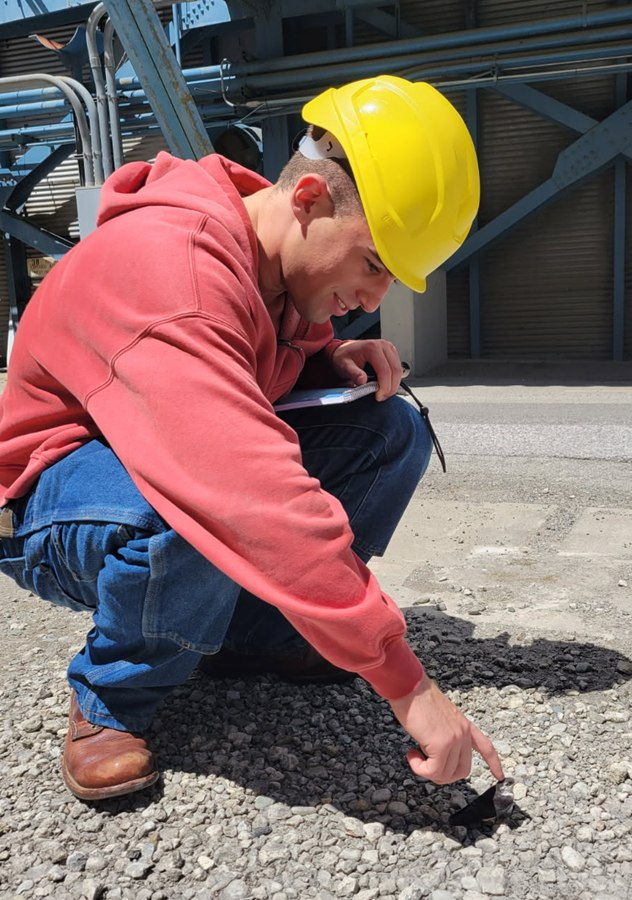
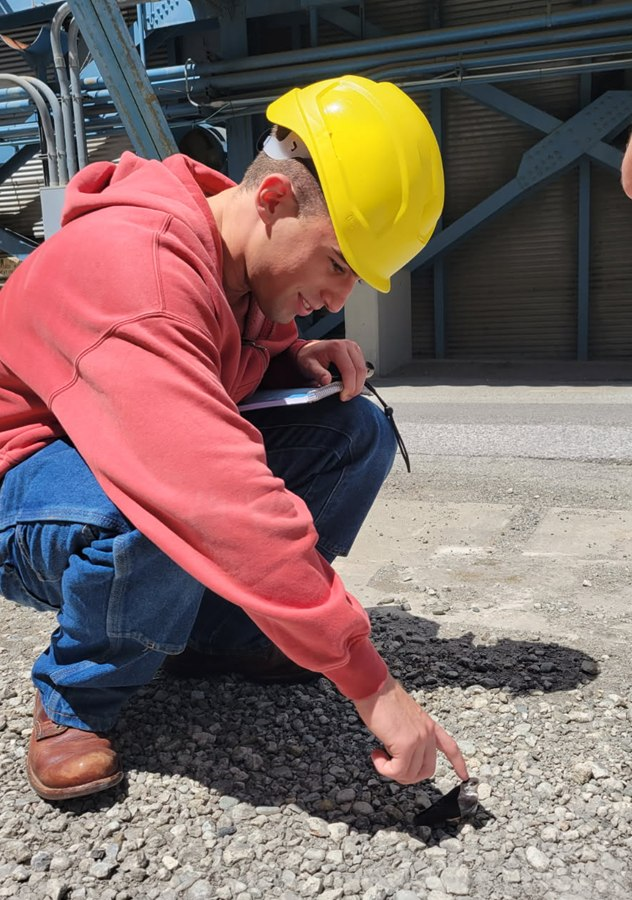
Re-centre the hero crop, add the CAN bus diagram, split the thermo thumbnail
- hero.jpg: crop window moved 50px right so I sit centred; a sliver of
  the second person comes back in at the top right, which is fine
- motor-1.png: CAN bus block diagram, kept as PNG so the line art stays
  crisp. Last placeholder is gone -- every project has a real image now
- thermo-thumb.jpg: the section view on its own, cut at the white gutter
  between the two renders, for the Selected work and Projects thumbnails.
  The project page keeps the full two-up render

diff --git a/projects.html b/projects.html
@@ -88,7 +88,7 @@
         </li>
 
         <li>
-          <div class="thumb"><a href="projects/motor-control-architecture.html"><img src="img/placeholder.svg" alt="CAN bus motor control architecture"></a></div>
+          <div class="thumb"><a href="projects/motor-control-architecture.html"><img src="img/motor-1.png" alt="CAN bus motor control architecture"></a></div>
           <div class="meat">
             <h4><a href="projects/motor-control-architecture.html">Motor Control Architecture</a></h4>
             <p>Our five-bar legged testbed was talking to its motor controllers
@@ -146,7 +146,7 @@
       <ul class="plist">
 
         <li>
-          <div class="thumb"><a href="projects/thermoacoustic-refrigerator.html"><img src="img/thermo-1.jpg" alt="Thermoacoustic refrigerator"></a></div>
+          <div class="thumb"><a href="projects/thermoacoustic-refrigerator.html"><img src="img/thermo-thumb.jpg" alt="Thermoacoustic refrigerator, section view"></a></div>
           <div class="meat">
             <h4><a href="projects/thermoacoustic-refrigerator.html">Thermoacoustic Refrigerator</a></h4>
             <p>A standing wave in a sealed tube drives a pressure gradient across

diff --git a/projects/motor-control-architecture.html b/projects/motor-control-architecture.html
@@ -77,11 +77,12 @@
         <tr><th>Status</th><td>Network up and reachable over SSH; bandwidth validation still to run</td></tr>
       </table>
 
-      <!-- swap in the real wiring diagram when it is to hand -->
       <figure>
-        <img src="../img/placeholder.svg" alt="CAN bus wiring diagram">
+        <img src="../img/motor-1.png" alt="Block diagram of the CAN bus motor control architecture">
         <figcaption>A basic wiring diagram I drew for the new CAN bus
-        architecture.</figcaption>
+        architecture: in over SSH to the Raspberry Pi, out through the CAN HAT
+        to the ODrive controllers, with an absolute encoder closing the loop on
+        each motor.</figcaption>
       </figure>
 
       <p>My lab&rsquo;s five-bar legged locomotion testbed was using direct USB to

diff --git a/index.html b/index.html
@@ -158,7 +158,7 @@
         </li>
 
         <li>
-          <div class="thumb"><a href="projects/thermoacoustic-refrigerator.html"><img src="img/thermo-1.jpg" alt="Thermoacoustic refrigerator"></a></div>
+          <div class="thumb"><a href="projects/thermoacoustic-refrigerator.html"><img src="img/thermo-thumb.jpg" alt="Thermoacoustic refrigerator, section view"></a></div>
           <div class="meat">
             <h4><a href="projects/thermoacoustic-refrigerator.html">Thermoacoustic Refrigerator</a></h4>
             <p>A heat pump driven by a standing wave &mdash; no compressor, no
